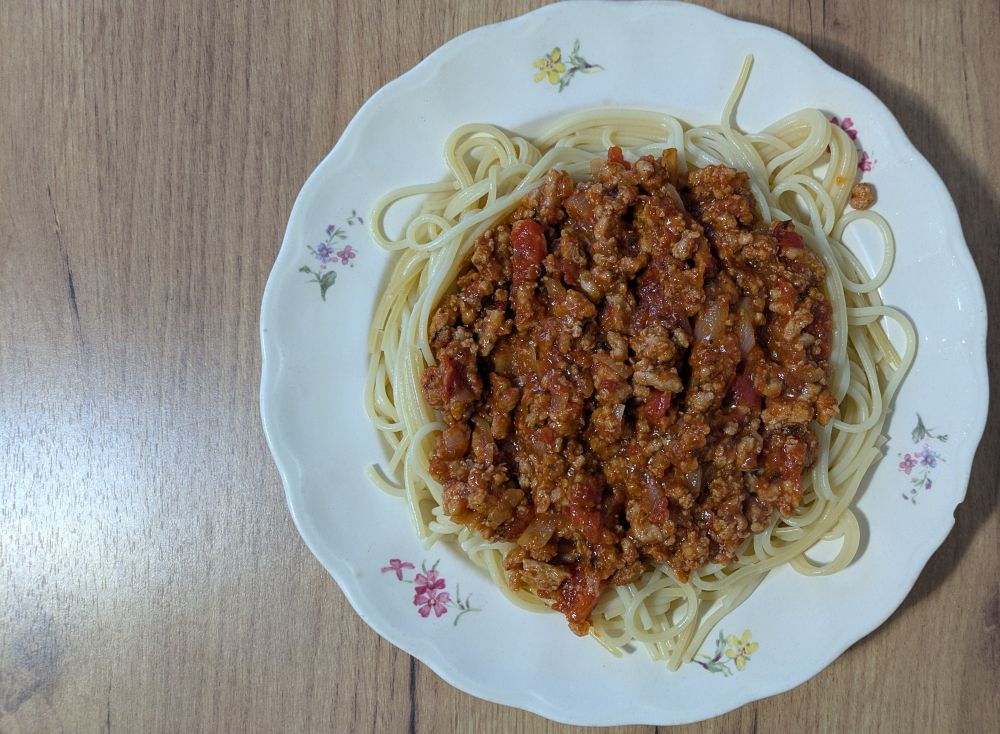
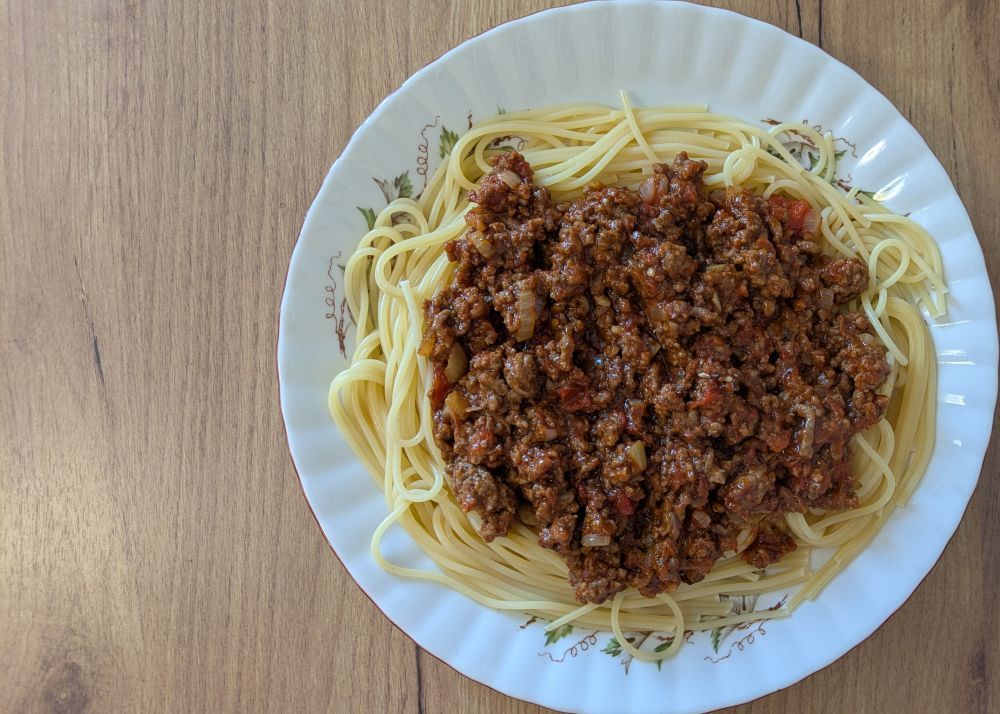
Updates

diff --git a/index.html b/index.html
@@ -5,8 +5,8 @@
     <link rel="icon" type="image/svg+xml" href="/vite.svg" />
     <meta name="viewport" content="width=device-width, initial-scale=1.0" />
     <title>recipes</title>
-    <script type="module" crossorigin src="/recipes/assets/index-geCnDhaS.js"></script>
-    <link rel="stylesheet" crossorigin href="/recipes/assets/index-CWNRsWSv.css">
+    <script type="module" crossorigin src="/recipes/assets/index-BviGdzHX.js"></script>
+    <link rel="stylesheet" crossorigin href="/recipes/assets/index-DG-fioHD.css">
   </head>
   <body>
     <div id="root"></div>

diff --git a/assets/index-DG-fioHD.css b/assets/index-DG-fioHD.css
@@ -1,0 +1,1 @@
+:root{font-family:system-ui,Avenir,Helvetica,Arial,sans-serif;line-height:1.5;font-weight:400;color-scheme:light dark;color:#ffffffde;background-color:#242424;font-synthesis:none;text-rendering:optimizeLegibility;-webkit-font-smoothing:antialiased;-moz-osx-font-smoothing:grayscale}body{position:relative;margin:0;padding:0;width:100%;min-height:100vh}body::-webkit-scrollbar{display:none}main{padding-right:4rem}nav{position:fixed;top:0;right:0;background-color:#111;height:calc(100% - 2rem);width:3.5rem;display:flex;flex-direction:column;justify-content:center;padding:1rem .25rem;gap:.5rem}.nav-item{width:100%;aspect-ratio:1/1;padding:.5rem;box-sizing:border-box;display:flex;justify-content:center;align-items:center;border-radius:.25rem}.nav-item:hover{cursor:pointer;background-color:#222}@media(max-width:640px){main{padding-right:0;padding-bottom:3rem}nav{top:unset;bottom:0;width:100%;height:2.5rem;flex-direction:row;padding:.25rem 1rem}.nav-item{width:2.5rem;height:100%}}.recipe-details{position:fixed;inset:0;z-index:20;width:62%;margin:2rem auto;background-color:#0f1115f7;-webkit-backdrop-filter:blur(8px);backdrop-filter:blur(8px);display:grid;grid-template-rows:420px auto;box-shadow:0 0 .5rem #000;border-bottom:solid .3rem #333;transition:grid-template-rows .3s;animation:modalIn .25s ease;overflow-y:scroll}.recipe-details::-webkit-scrollbar{display:none}.recipe-details.collapsed{grid-template-rows:60px auto}.recipe-details.collapsed .recipe-details-header{height:60px}.recipe-details.collapsed .recipe-details-image{opacity:.4}.recipe-details.collapsed .images-indicators,.recipe-details.collapsed .resize-button{display:none}.recipe-details.collapsed .recipe-details-title{white-space:nowrap;overflow:hidden;text-overflow:ellipsis;bottom:50%;transform:translateY(50%);font-size:1.5rem;max-width:70%;cursor:pointer}.recipe-details.collapsed .recipe-details-title:hover{filter:drop-shadow(0 0 .5rem #fff)}.recipe-details.collapsed .close-button{top:.5rem;right:.5rem}.recipe-details.collapsed .images-arrow,.recipe-details.collapsed .key-icons{display:none}.description-section{padding:2rem;font-size:1.2rem;border-bottom:dashed .3rem #333333}.diff-rating{display:flex;gap:.5rem}.diff-rating svg{height:1.6rem}.ingredients-section{border-bottom:dashed .3rem #333333}.steps-section{padding:2rem 0;border-bottom:dashed .3rem #333333}.recipe-details-daily{padding:2rem 0}.recipe-daily-chart{margin:auto;width:90%}.recipe-details-params{z-index:30;width:100%;padding:2rem 0;gap:0;display:flex;justify-content:space-evenly;transition:opacity .3s .3s}.recipe-param{position:relative;display:flex;align-items:center;justify-content:center;width:1.8rem;height:1.8rem;padding:.5rem;font-weight:600}.recipe-param:after{content:"";position:absolute;top:1.2rem;width:100%;height:100%;font-size:.8rem;display:flex;justify-content:center;align-items:center;opacity:.5;color:#fff}.recipe-param:nth-child(1):after{content:"kcal"}.recipe-param:nth-child(2):after{content:"kc/100g"}.recipe-param:nth-child(3):after{content:"min"}.recipe-param:nth-child(4):after{content:"por."}.recipe-param:nth-child(5):after{content:"tłus."}.recipe-param:nth-child(6):after{content:"węgl."}.recipe-param:nth-child(7):after{content:"biał."}.recipe-param>span{transform:translateY(-.2rem)}.font-xl{font-size:1.4rem}.font-lg{font-size:1.2rem}.font-md{font-size:1.1rem}.font-sm{font-size:1rem}.status-green{color:#2ecc71}.status-yellow{color:#f1c40f}.status-red{color:#e74c3c}.recipe-details-header{position:sticky;top:0;z-index:99;background-color:#111;border-bottom:solid .3rem #333;height:420px;overflow:hidden;transition:height .3s ease,padding .3s ease}.details-images{position:absolute;top:50%;left:50%;transform:translate(-50%,-50%);width:100%;height:420px;display:flex;touch-action:pan-y}.recipe-details-image{position:absolute;top:0;height:420px;width:100%;object-fit:cover;opacity:.85;filter:saturate(1.2);transition:left .3s ease,opacity .3s ease,transform .3s ease}.images-arrow{position:absolute;z-index:1;top:0;font-size:8rem;height:420px;cursor:pointer;-webkit-user-select:none;user-select:none;padding:0 .5rem;display:flex}.images-arrow svg{width:2rem;margin:auto}.images-arrow:first-child{left:0}.images-arrow:last-child{right:0}.images-arrow:last-child svg{transform:rotate(180deg)}.images-indicators{position:absolute;bottom:1rem;left:50%;transform:translate(-50%);display:flex;gap:.5rem}.image-indicator{width:.8rem;height:.8rem;border-radius:50%;background-color:#111;box-shadow:0 0 1rem #000;cursor:pointer}.image-indicator.active{background-color:#20c997}.recipe-details-title{position:absolute;bottom:2rem;left:2rem;margin:0;font-size:2rem;font-weight:600;color:#fff;text-shadow:0 .3rem .3rem #000;transition:bottom .3s ease,font-size .3s ease,transform .3s ease}.key-icons{position:absolute;top:.5rem;left:.5rem;display:flex;gap:.5rem}.key-icons svg{height:1.6rem}.recipe-details-content{position:relative;border:solid .3rem #333;border-top:none;border-bottom:none;gap:4rem;padding:1rem 3rem}.ingredients-container{padding:2rem 0;margin:0;display:grid;grid-template-columns:repeat(4,1fr)}.recipe-ingredient-group{padding:0;margin:0;grid-column:span 2}.recipe-ingredient-group.main-group{grid-column:1 / span 3}.recipe-details-content h3{margin:0;margin-bottom:1rem;font-size:1.2rem;color:#20c997}.recipe-details-content h4{font-size:1rem;margin:0;padding:1rem}.ingredient-group-title{cursor:default;background-color:#087f5b80}.ingredients-list-container{position:relative;height:auto;margin:1rem;background-color:#222}.ingredients-list-container:after{content:"";position:absolute;width:100%;height:100%;background-color:#000;bottom:-1rem;right:-1rem;z-index:-1}.ingredients-list{list-style:none;padding:1rem 1.2rem;margin:0;border:solid #333333 .2rem}.ingredient-item{position:relative;display:grid;grid-template-columns:1rem auto 6rem;padding:0 .5rem;font-size:.95rem;border-top:1px solid #333333}.ingredient-item:first-child{border:none}.ingredient-item-alt{display:grid;grid-template-columns:1rem auto 4rem 2rem;padding:0 .5rem;font-size:.95rem;border-top:1px solid #333333}.ingredient-item-alt:last-child{border:none}.ingredient-item-alt:first-child{border:none}.ingredient-amount{display:flex;align-items:center;min-width:0;padding:.4rem .4rem .4rem .6rem;padding-right:0;font-weight:600;font-size:1rem;color:#20c997;white-space:nowrap;border-left:solid 1px #333333}.ingredient-unit{margin-left:.3rem;font-size:.8rem;color:#63e6be;white-space:nowrap;overflow:hidden;text-overflow:ellipsis}.ingredient-name{color:#eaeaea;margin:0 1rem;padding:.5rem 0}.ingredient-indicator{width:1.2rem;height:1.2rem;aspect-ratio:1/1;margin:auto}.ingredient-alt{display:flex;justify-content:center;align-items:center;padding:0;border:none;width:1.4rem;height:1.4rem;aspect-ratio:1/1;margin:auto 0;opacity:.4;padding:.2rem}.ingredient-alt:hover{cursor:pointer;opacity:.8}.steps h4{color:#63e6be;padding:0;padding-bottom:1rem;margin-top:2rem}.steps-list{padding-left:1.5rem;margin:0;counter-reset:step}.steps-list li{position:relative;margin-bottom:.75rem;line-height:1.5;font-size:1.1rem;color:#ccc;counter-increment:step}.steps-list li:before{content:"▶";position:absolute;top:.2rem;left:-1.2rem;color:#63e6be;font-size:.8rem;font-weight:600}.steps-list li::marker{color:transparent}.close-button{position:absolute;top:0;right:0;z-index:9;width:3.2rem;height:3.2rem;padding:.5rem;border:none;background-color:#0000;filter:drop-shadow(0 .3rem .3rem #000);color:#fff;font-size:1.6rem;cursor:pointer;display:flex;align-items:center;justify-content:center;transition:background-color .2s ease,right .3s ease,top .3s ease}.close-button:hover{opacity:.8;filter:drop-shadow(0 0 .5rem #fff)}@keyframes modalIn{0%{opacity:0;transform:translateY(8px) scale(.98)}to{opacity:1;transform:translateY(0) scale(1)}}@media(max-width:1300px){.recipe-ingredient-group,.recipe-ingredient-group.main-group{grid-column:span 4}.recipe-daily-chart{width:100%}}@media(max-width:960px){.recipe-details{width:100%;margin:0;inset:0;grid-template-rows:280px auto;border-bottom:none}.recipe-ingredient-group{grid-column:span 2}.recipe-ingredient-group.main-group{grid-column:1 / span 3}.description-section{font-size:1rem}.recipe-param>span{transform:none}.recipe-details-header{height:280px}.images-arrow{display:none}.recipe-details-title{position:absolute;left:1rem}.images-indicators{scale:.8}.close-button{width:2.8rem;height:2.8rem}.recipe-details-content{grid-template-columns:100%;border:none;padding:1rem}.details-images,.recipe-details-image{height:280px}.recipe-daily-chart{width:90%}}@media(max-width:820px){.recipe-daily-chart{width:100%}}@media(max-width:640px){.recipe-ingredient-group,.recipe-ingredient-group.main-group{grid-column:span 4}}.recipes-grid{display:grid;grid-template-columns:repeat(auto-fill,minmax(260px,1fr));gap:1.5rem;padding:7.5rem 2.5rem 2.5rem}.recipes-grid.list-view{grid-template-columns:1fr 1fr 1fr;gap:1rem}.recipe-card{position:relative;height:180px;text-decoration:none;color:inherit;background-size:cover;background-position:center;box-shadow:0 2px 4px #0006;-webkit-user-select:none;user-select:none;border-radius:.25rem}.recipes-grid.list-view .recipe-card{display:flex;align-items:center;padding-left:1rem;background-color:#181818;border-radius:.4rem}.recipes-grid.list-view .recipe-card{height:60px}.recipe-card-bg{position:absolute;inset:0;background-size:cover;background-position:center;z-index:0;border-radius:.25rem}.saturate-bg{filter:saturate(1.2)}.recipe-card:hover{cursor:pointer}.recipes-grid.list-view .recipe-card:hover{transform:translateY(0)}.recipe-card-content{position:absolute;bottom:0;width:calc(100% - 2rem);height:40%;display:flex;align-items:center;padding:1rem}.recipes-grid.list-view .recipe-card-content{position:relative;bottom:unset}.recipe-card-content h2{font-size:1.25rem;font-weight:500;max-width:90%;text-shadow:2px 2px #333333}.card-mark{position:absolute;top:-.25rem;right:.5rem;padding:.25rem 0;border-radius:.25rem .25rem 2rem 2rem}.card-svg{display:flex;align-items:center;justify-content:center;width:1.2rem;height:1.2rem;border-radius:50%;padding:.5rem}.recipes-grid.list-view .card-svg{position:relative;top:unset;right:unset}.card-warning{position:absolute;top:-.6rem;left:-.6rem;width:2rem;height:2rem}@media(max-width:960px){.recipes-grid{width:100%;padding:0;gap:0;padding-top:5rem}.recipe-card{height:200px;border-radius:0}.recipe-card-bg{border-radius:0}.recipe-card:hover{transform:translateY(0)}}.recipes-page{position:relative;min-height:100vh;color:#eaeaea;padding:0;margin:0;width:100%}.page-title{position:fixed;top:0;left:0;z-index:9;width:calc(100% - 2rem);padding:1rem;display:flex;justify-content:space-between;align-items:center;background-color:#111}.page-title-h1{display:flex;align-items:center;gap:.5rem;margin:0;font-size:2rem;font-weight:600;cursor:pointer}.page-title h1 svg{height:2.4rem}.page-title-options{display:flex;gap:2rem}.toggle-filters-btn{display:none;padding:.5rem;background-color:#0000;border:none;color:#fff;border-radius:8px;cursor:pointer}.toggle-filters-btn svg{width:1.8rem}.toggle-search-btn{display:none;padding:.5rem;background-color:#0000;border:none;color:#fff;border-radius:8px;cursor:pointer}.toggle-search-btn svg{width:1.8rem}.filter-buttons-bg{position:absolute;opacity:0;pointer-events:none;transition:opacity .2s}.recipe-search-label{display:flex;align-items:center;background-color:#222;border:2px solid #666;border-radius:8px;padding:0 .5rem;cursor:pointer}.recipe-search-label svg{height:1.6rem}.recipe-search-input{padding:.5rem;border:none;outline:none;background-color:#0000;transition:.2s;display:flex;align-items:center;justify-content:center;font-size:1.2rem;color:#fff}.recipe-search-label:focus-within{border:2px solid #eee}.filter-buttons{display:flex;gap:.5rem}.recipe-search{display:flex}.filter-btn{position:relative;padding:.5rem;border:2px solid #666;border-radius:8px;background-color:#222;cursor:pointer;transition:.2s;display:flex;align-items:center;justify-content:center;width:50px;height:50px}.filter-svg{width:24px;height:24px}.filter-text{position:absolute;bottom:-2.5rem;left:50%;transform:translate(-50%);border:2px solid #666;border-radius:8px;background-color:#222;padding:.3rem .6rem;display:none}.filter-btn:hover>span{display:inline}.details-bg{position:fixed;z-index:10;top:0;left:0;width:100vw;height:100vh;background-color:#00000080;cursor:pointer;-webkit-backdrop-filter:blur(4px);backdrop-filter:blur(4px)}.grid-container{min-height:calc(100dvh - 5rem)}.footer{background-color:#111;padding:1rem;display:flex;justify-content:flex-end;align-items:center;gap:2rem}.footer-button{height:3rem;padding:0 1.5rem;outline:none;transition:.2s;display:flex;align-items:center;justify-content:center;gap:1rem;font-size:1.2rem;color:#fff;border:none;background-color:transparent;border-radius:8px;cursor:pointer}.footer-button svg{height:1.2rem}@media(max-width:960px){.page-title-options{gap:.5rem}.toggle-filters-btn,.toggle-search-btn{display:inline-block}.recipe-search{display:flex;position:absolute;right:50%;top:calc(100% + 1rem);transform:translate(50%) scale(0);flex-direction:column;background:linear-gradient(60deg,#0003 30%,#000);background-color:#333;border-radius:8px;padding:1rem;transition:transform .2s}.recipe-search.show{transform:translate(50%) scale(1)}.filter-buttons{display:flex;position:absolute;right:.5rem;top:calc(100% + .5rem);flex-direction:column;background:linear-gradient(60deg,#0003 30%,#000);background-color:#333;border-radius:8px;padding:1rem;transform:scale(0);transition:transform .2s}.filter-buttons.show{transform:scale(1)}.filter-buttons-bg.show{top:5rem;left:0;width:100%;height:100vh;background-color:#00000080;opacity:1;pointer-events:all}.recipe-search-input{font-size:1.4rem}.filter-btn{background-color:#222;cursor:pointer;transition:.2s;display:flex;align-items:center;justify-content:start;gap:1rem;padding:0 1rem;width:10.8rem;height:3.2rem;font-size:1.2rem;color:#fff}.filter-btn.active{filter:grayscale(1)}.filter-text{position:relative;bottom:unset;left:unset;transform:translate(0);border:none;padding:0;display:block}}@media(max-width:360px){.h1-text{display:none}}.user-page{margin:0;padding-top:5rem;display:grid;grid-template-columns:3fr 1fr;height:calc(100vh - 5rem);overflow:hidden}.user-page h1{position:fixed;top:0;left:0;z-index:9;background-color:#111;margin:0;width:100%;padding:1rem}.meal-panel{display:grid;grid-template-rows:repeat(3,1fr);border:.2rem solid #333;height:calc(100vh - 5.4rem)}.meal-card{display:grid;grid-template-columns:8rem auto 5rem;border-radius:0;overflow:hidden;background-color:#161616;border:.2rem solid #333}.meal-list{gap:.5rem;padding:.5rem;overflow-y:auto;overflow-x:hidden}.meal-ing{display:inline-flex;margin:.25rem .5rem;height:fit-content;background-color:#000;padding:.25rem .5rem;border-radius:.5rem;gap:.4rem;scale:0;animation:ing-item-ani .3s forwards}@keyframes ing-item-ani{to{scale:1}}.meal-ing svg{height:1.2rem}.meal-card h3{display:flex;flex-direction:column;justify-content:center;align-items:center;padding:0 1rem}.meal-card h3 svg{height:5rem}.meal-card button{background-color:#000;border:none;padding:0 1rem;cursor:pointer}.meal-card button:hover{background-color:#222}.summary-card{height:calc(100% - 2.8rem);border-radius:0;padding:1rem;background-color:#161616;border:.4rem solid #333;border-left:none}.macro-row{display:flex;justify-content:space-between;margin:12px 0}.macro-indicator{height:.8rem;width:100%;background-color:#444;border-radius:1rem;overflow:hidden}.macro-indicator p{width:0;height:100%;border-radius:1rem;padding:0;margin:0;transition:width .3s}.save-btn{width:100%;margin-top:20px;padding:12px;cursor:pointer;background-color:#222;border:2px solid #666;border-radius:8px;font-size:1.2rem;font-weight:700}.save-btn:hover{background-color:#333}.modal-backdrop{position:absolute;top:4rem;left:0;width:calc(100% - 4rem);height:calc(100% - 4rem);z-index:99;display:flex;justify-content:center;background-color:#00000080}.modal{margin-top:8rem;width:26rem;display:flex;flex-direction:column;gap:1rem}.modal h2{font-size:2rem}.portions-input{font-size:1.6rem;display:flex;gap:1rem}.portions-input input{width:3rem;height:2rem;font-size:1.6rem;text-align:center;padding:.25rem}.modal select{font-size:1.6rem;padding:.25rem}.modal button{padding:.25rem;font-size:1.6rem;cursor:pointer;background-color:#222;border:2px solid #666;border-radius:8px}.all-ingredients{width:100%;height:100vh;background-color:#000000d9;overflow-y:scroll}.all-ingredients::-webkit-scrollbar{display:none}.close-ingredients{position:fixed;top:1rem;right:2rem;z-index:9;width:2.8rem;height:2.8rem;border:solid .2rem #333;background-color:#111;color:#fff;font-size:1.6rem;cursor:pointer;border-radius:50%;display:flex;align-items:center;justify-content:center;z-index:99}.close-ingredients svg{height:2rem}.ing-group{padding:0 2rem}.ing-group:last-child{padding-bottom:2rem}.ing-group-title{-webkit-user-select:none;user-select:none;display:flex;align-items:center;gap:2rem;font-size:1.25rem;font-weight:600;margin-bottom:1rem;padding:1rem;cursor:pointer}.ing-group-title svg{height:2rem}.ing-group-title svg:first-child{rotate:-90deg}.ing-group-title.open svg:first-child{rotate:90deg}.ingredient-list{display:grid;grid-template-columns:repeat(5,1fr);gap:1rem;margin:0;padding:0;list-style-type:none;max-height:0;overflow:hidden;transition:max-height .3s}.ingredient-card{position:relative;background-color:#161616;border:3px solid #444444;overflow:hidden;color:#aaa}.ingredient-card strong{color:#ddd}.ing-card-header{position:relative;display:flex;justify-content:space-between;font-weight:600;padding:0 1rem;background-color:#444;width:100%;height:1.8rem}.ing-card-header span{padding:0;margin:0;text-overflow:ellipsis;overflow:hidden;white-space:nowrap;max-width:calc(100% - 2rem)}.ing-card-header svg{position:absolute;width:1rem;height:1rem;top:.2rem;right:2.2rem}.ingredient-card-content{padding:1rem 1rem 1.5rem}.nutrient-indicator{position:absolute;top:1.8rem;right:0;height:calc(100% - 1.8rem);width:.5rem;background-color:#333;display:flex;flex-direction:column;justify-content:end}.nutrient-fat{background-color:#f59f00}.nutrient-carb{background-color:#1098ad}.nutrient-prot{background-color:#f03e3e}.ingredient-meta{display:flex;align-items:center;gap:.5rem;color:#ddd}.ingredient-meta svg{height:1.2rem}.kcal{font-size:.85rem;padding:.3rem 0;border-bottom:solid 1px #333}.macros{padding:.3rem 0;border-bottom:solid 1px #333}.macros span{display:inline-block;font-size:.8rem;margin-right:.5rem}.units{padding:.3rem 0;border-bottom:solid 1px #333}.units span{display:block;font-size:.8rem;margin-right:.5rem}.ingredient-usage strong.none{color:#e03131}.ingredient-usage strong.many{color:#099268}.ingredient-id{position:absolute;right:1rem;bottom:.3rem;font-size:.6rem;color:#666}@media(max-width:1200px){.ingredient-list{grid-template-columns:1fr 1fr 1fr 1fr}}@media(max-width:960px){.ing-group{padding:1rem}.ingredient-list{grid-template-columns:1fr 1fr 1fr}.ingredient-card-content{padding:.5rem .5rem 1rem}}@media(max-width:720px){.ingredient-list{grid-template-columns:1fr 1fr}}@media(max-width:520px){.ingredient-list{grid-template-columns:1fr}}.statistics{width:calc(100% - 4rem);height:calc(100vh - 4rem);background-color:#000000d9;overflow-y:scroll;padding:2rem;gap:3rem;display:grid;grid-template-columns:repeat(2,1fr)}.statistics::-webkit-scrollbar{display:none}.statistics-element{display:flex;flex-direction:column;height:500px;padding:2rem;background-color:#111;border-radius:1rem;border:solid #222 .1rem;box-shadow:0 0 1rem #333}.statistics-element h2{filter:drop-shadow(0 0 .5rem #aaa);text-align:center;margin:0;margin-bottom:2rem}.chart-wrapper{position:relative;flex:1}.statistics canvas{position:absolute;inset:0;width:100%!important;height:100%!important}.close-statistics{position:fixed;top:1rem;right:2rem;z-index:9;width:2.8rem;height:2.8rem;border:solid .2rem #333;background-color:#111;color:#fff;font-size:1.6rem;cursor:pointer;border-radius:50%;display:flex;align-items:center;justify-content:center;z-index:99}.close-statistics svg{height:2rem}@media(max-width:960px){.statistics{grid-template-columns:1fr;padding-left:0;padding-right:0;width:100vw}.statistics-element{padding:1rem;height:420px}.statistics-element{font-size:.8rem;margin-bottom:1rem}}